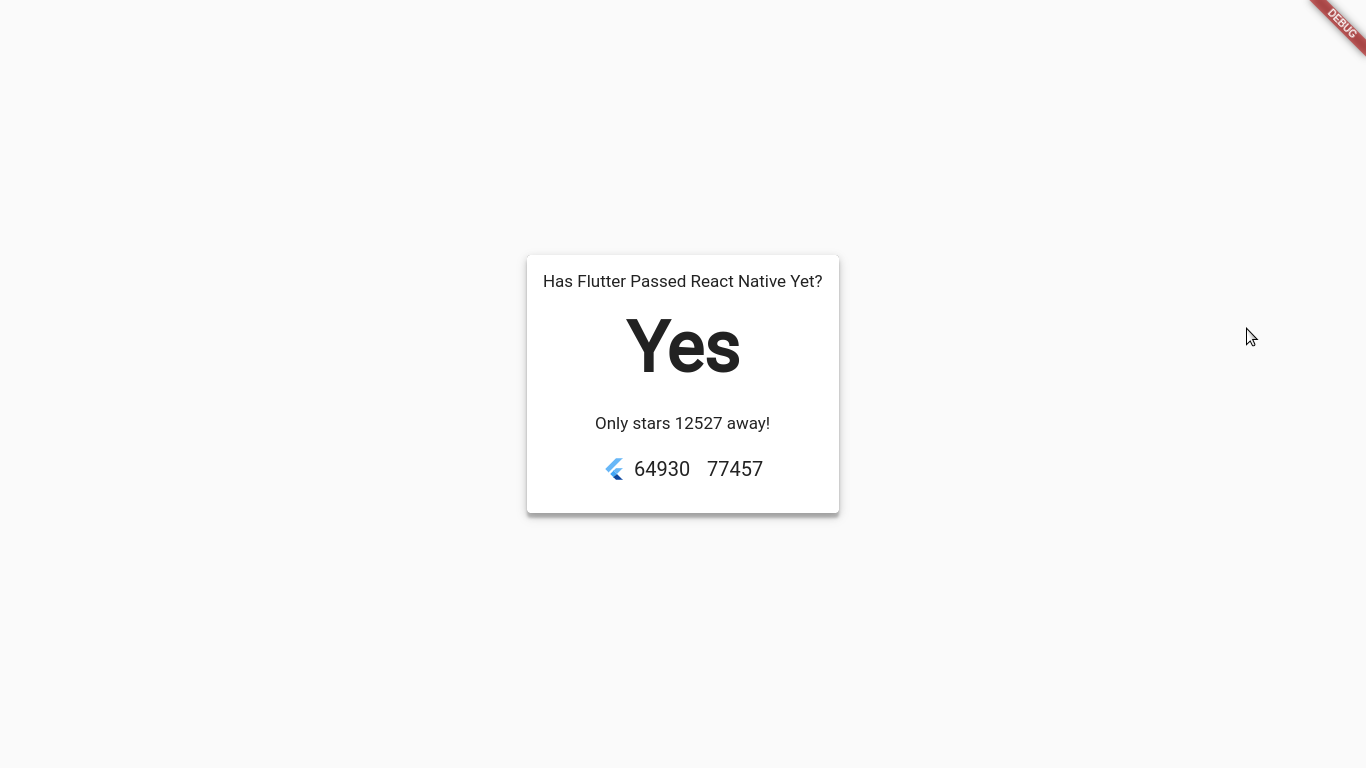
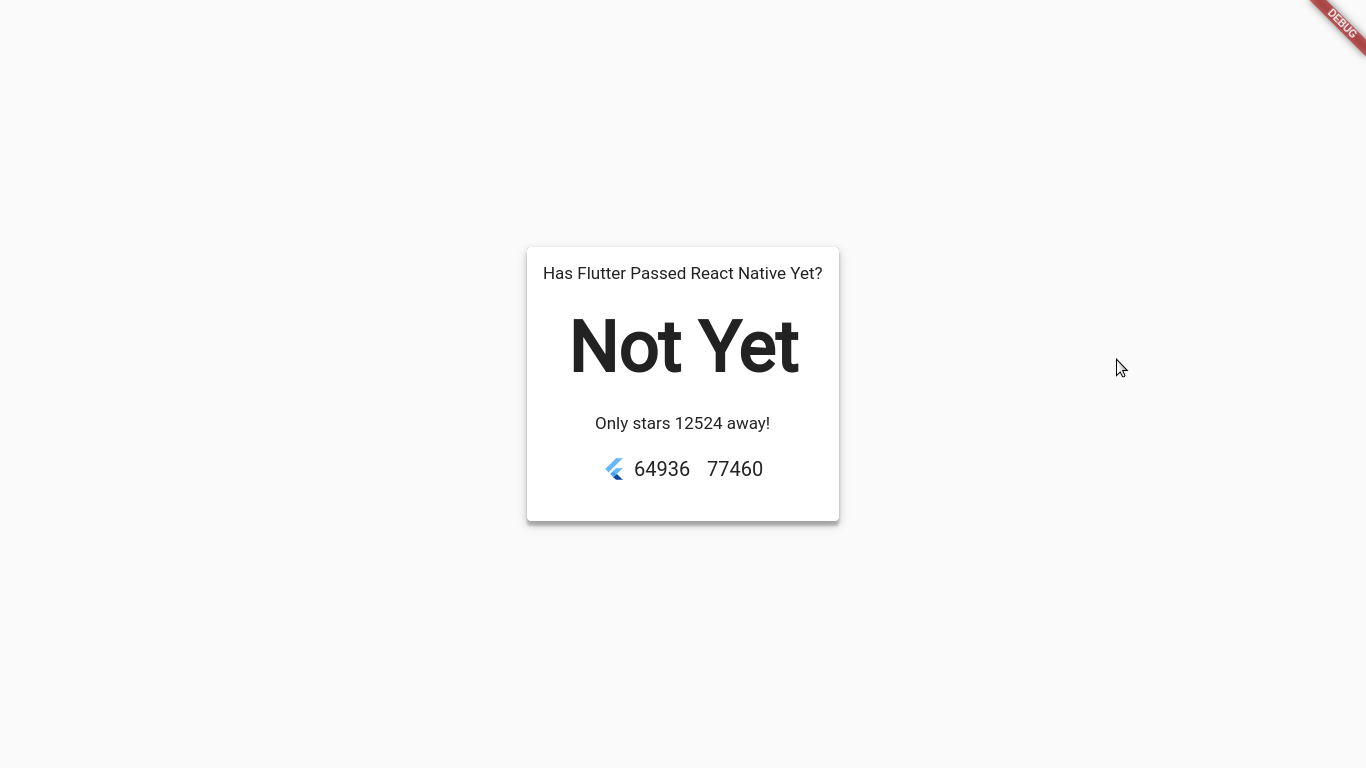
Bug Fix

Changed region(s): [[0.3997, 0.4062, 0.5842, 0.5], [0.369, 0.6562, 0.6149, 0.6875], [0.3997, 0.3438, 0.6149, 0.375]]

diff --git a/lib/main.dart b/lib/main.dart
@@ -39,65 +39,72 @@ class MyHomePage extends StatelessWidget {
                       style: TextStyle(fontSize: 17),
                     ),
                     Padding(
-                      padding: const EdgeInsets.all(16.0),
-                      child: Text(
-                        _flutterStargazersCount > _reactnativeStargazersCount
-                            ? "Yes"
-                            : "Not Yet",
-                        style: TextStyle(
-                            fontWeight: FontWeight.bold, fontSize: 70),
-                      ),
-                    ),
-                    Padding(
                       padding: const EdgeInsets.all(8.0),
                       child: FutureBuilder(
                         initialData: "Loading...",
                         future: getData(),
                         builder: (context, snapshot) {
                           if (snapshot.hasData) {
-                            return Text(
-                              _flutterStargazersCount >
-                                      _reactnativeStargazersCount
-                                  ? "Ahead by ${snapshot.data} stars!"
-                                  : "Only stars ${snapshot.data} away!",
-                              style: TextStyle(fontSize: 17),
-                            );
-                          }
-                        },
-                      ),
-                    ),
-                    Padding(
-                      padding: const EdgeInsets.all(8.0),
-                      child: FutureBuilder(
-                        initialData: "Loading...",
-                        future: getData(),
-                        builder: (context, snapshot) {
-                          return IntrinsicWidth(
-                            child: Row(
-                              mainAxisAlignment: MainAxisAlignment.start,
+                            return Column(
                               children: <Widget>[
-                                Container(
-                                    margin: EdgeInsets.all(8.0),
+                                Padding(
+                                  padding: const EdgeInsets.all(16.0),
+                                  child: Text(
+                                      _flutterStargazersCount >
+                                          _reactnativeStargazersCount
+                                          ? "Yes"
+                                          : "Not Yet",
+                                      style: TextStyle(
+                                          fontWeight: FontWeight.bold,
+                                          fontSize: 70)),
+                                ),
+                                Padding(
+                                  padding: const EdgeInsets.all(8.0),
+                                  child: Text(
+                                    _flutterStargazersCount >
+                                            _reactnativeStargazersCount
+                                        ? "Ahead by ${snapshot.data} stars!"
+                                        : "Only stars ${snapshot.data} away!",
+                                    style: TextStyle(fontSize: 17),
+                                  ),
+                                ),
+                                Padding(
+                                  padding: const EdgeInsets.all(8.0),
+                                  child: IntrinsicWidth(
                                     child: Row(
+                                      mainAxisAlignment:
+                                          MainAxisAlignment.start,
                                       children: <Widget>[
                                         Container(
-                                            margin: EdgeInsets.only(right: 8),
-                                            child: FlutterLogo()),
-                                        Text(
-                                          _flutterStargazersCount.toString(),
-                                          style: TextStyle(fontSize: 20),
-                                        )
+                                            margin: EdgeInsets.all(8.0),
+                                            child: Row(
+                                              children: <Widget>[
+                                                Container(
+                                                    margin: EdgeInsets.only(
+                                                        right: 8),
+                                                    child: FlutterLogo()),
+                                                Text(
+                                                  _flutterStargazersCount
+                                                      .toString(),
+                                                  style:
+                                                      TextStyle(fontSize: 20),
+                                                )
+                                              ],
+                                            )),
+                                        Container(
+                                            margin: EdgeInsets.all(8.0),
+                                            child: Text(
+                                              _reactnativeStargazersCount
+                                                  .toString(),
+                                              style: TextStyle(fontSize: 20),
+                                            ))
                                       ],
-                                    )),
-                                Container(
-                                    margin: EdgeInsets.all(8.0),
-                                    child: Text(
-                                      _reactnativeStargazersCount.toString(),
-                                      style: TextStyle(fontSize: 20),
-                                    ))
+                                    ),
+                                  ),
+                                ),
                               ],
-                            ),
-                          );
+                            );
+                          }
                         },
                       ),
                     ),
